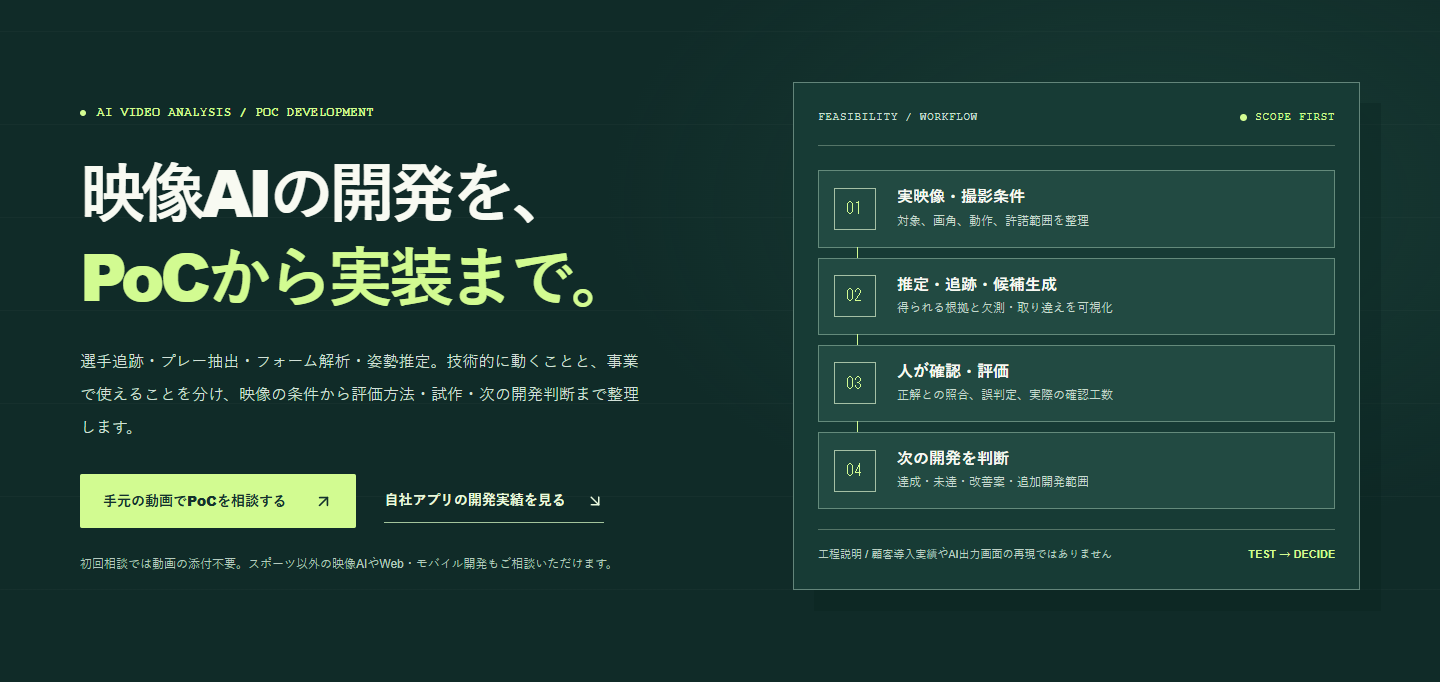
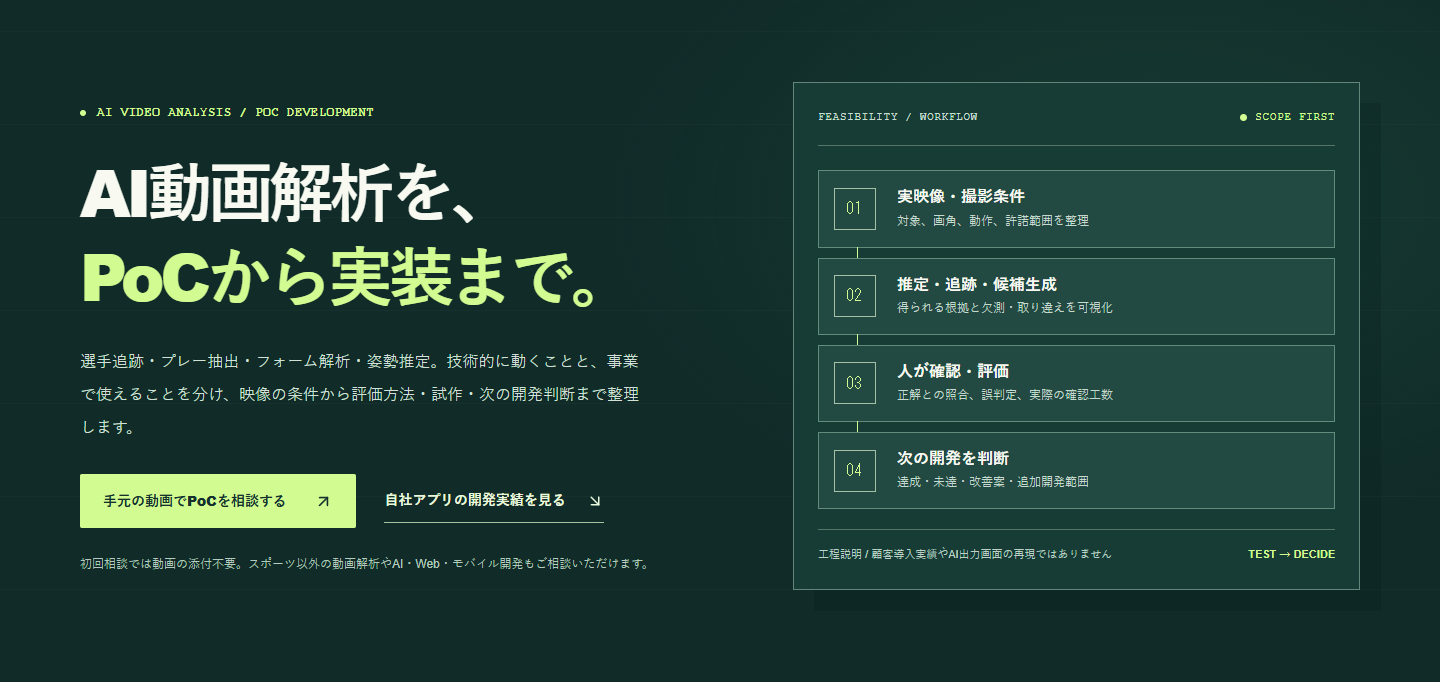
fix: clarify AI video analysis heading and mobile layout

Changed region(s): [[0.0312, 0.2155, 0.375, 0.3387], [0.2188, 0.8006, 0.4375, 0.8314]]

diff --git a/app/ai-video-analysis/page.tsx b/app/ai-video-analysis/page.tsx
@@ -47,13 +47,13 @@ export default function VideoAnalysisDevelopmentPage() {
           <div className={`wrap ${styles.heroLayout}`}>
             <div className={styles.heroCopy}>
               <p className={styles.eyebrow}>AI VIDEO ANALYSIS / POC DEVELOPMENT</p>
-              <h1 id="video-poc-title" className={styles.heroTitle}>映像AIの開発を、<span><strong>PoCから実装まで。</strong></span></h1>
+              <h1 id="video-poc-title" className={styles.heroTitle}>AI動画解析を、<span><strong>PoCから実装まで。</strong></span></h1>
               <p className={styles.heroLead}>選手追跡・プレー抽出・フォーム解析・姿勢推定。技術的に動くことと、事業で使えることを分け、映像の条件から評価方法・試作・次の開発判断まで整理します。</p>
               <div className={styles.heroActions}>
                 <Link href="#contact" className={`button ${styles.primary}`} data-track="cta_click" data-location="video_poc" data-service="sports-ai">手元の動画でPoCを相談する <ArrowUpRight size={19} aria-hidden="true" /></Link>
                 <Link href="#product-proof" className={`text-link ${styles.secondary}`} data-track="case_study_click" data-location="video_poc">自社アプリの開発実績を見る <ArrowDownRight size={18} aria-hidden="true" /></Link>
               </div>
-              <p className={styles.heroMicro}>初回相談では動画の添付不要。スポーツ以外の映像AIやWeb・モバイル開発もご相談いただけます。</p>
+              <p className={styles.heroMicro}>初回相談では動画の添付不要。スポーツ以外の動画解析やAI・Web・モバイル開発もご相談いただけます。</p>
             </div>
             <div className={styles.flowBoard} aria-label="AI動画解析PoCの流れ">
               <div className={styles.boardTop}><span>FEASIBILITY / WORKFLOW</span><span className={styles.boardStatus}>SCOPE FIRST</span></div>

diff --git a/docs/growth/video-poc-inbound-20261103/HERO-COPY-20261103.md b/docs/growth/video-poc-inbound-20261103/HERO-COPY-20261103.md
@@ -1,12 +1,12 @@
 # 専門LPファーストビュー短縮：2026年11月3日
 
 ## 意図
-会社のトップサイトはAI開発・PoC・Web/モバイル開発を広く案内し、映像AIの専門LPは具体的な技術相談を獲得する役割に分ける。映像AIだけをCyber Knock全体の唯一の事業領域と誤認させない。
+会社のトップサイトはAI開発・PoC・Web/モバイル開発を広く案内し、AI動画解析の専門LPは具体的な技術相談を獲得する役割に分ける。動画解析だけをCyber Knock全体の唯一の事業領域と誤認させない。
 
 ## 変更
 - 旧H1：「AI動画解析の受託開発。使える条件を、PoCで確かめる。」（狭い幅では4行）
-- 新H1：「映像AIの開発を、PoCから実装まで。」
-- H1は「映像AIの開発を、」と「PoCから実装まで。」をそれぞれ1行に分ける。
+- 新H1：「AI動画解析を、PoCから実装まで。」
+- H1は「AI動画解析を、」と「PoCから実装まで。」をそれぞれ1行に分ける。
 - 「AI動画解析」などの具体的な技術・対象はtitle、description、リード文、下部のサービス説明に残す。自社プロダクトの開発・運用事例への導線、問い合わせフォームは維持。
 - 「実装まで」は相談可能な開発範囲を表し、商用精度・受注・固定価格や納期の保証ではない。
 

diff --git a/docs/growth/video-poc-inbound-20261103/QA-RESULTS.md b/docs/growth/video-poc-inbound-20261103/QA-RESULTS.md
@@ -35,7 +35,7 @@
 
 ## ファーストビューの見出し短縮（最新）
 
-- H1を「映像AIの開発を、PoCから実装まで。」へ変更。サイト全体の事業範囲は限定せず、映像AI専門LPの検索意図はtitleと本文で維持する。
+- H1を「AI動画解析を、PoCから実装まで。」へ変更。サイト全体の事業範囲は限定せず、映像AI専門LPの検索意図はtitleと本文で維持する。
 - Chrome実測で**320・360・390・768・1440px、5条件すべてH1が2行**。横はみ出し0、JavaScriptエラー0。[ブラウザ結果](./checks/hero-copy-qa.json)／[320px](./screenshots/hero-copy-320.png)／[390px](./screenshots/hero-copy-390.png)／[1440px](./screenshots/hero-copy-1440.png)。
 
 **公開判断：Open PR（未マージ）で最終レビュー待ち。** GitHub CIとプレビュー結果は更新コミット後に別途確認する。本番へのマージ・デプロイ・実顧客への送信は行っていない。
